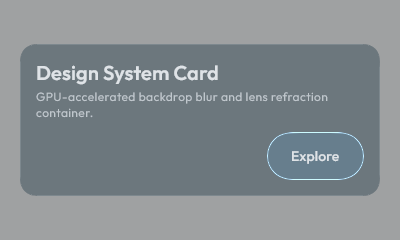
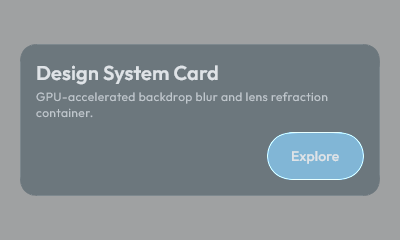
Restore GlassPrimaryButton's brand-accent identity
GlassButtonVariant.Primary's tint used the generic AlphaTokens.Hover
(0.20f), which after drawButtonSurface's own 0.5x overlay and the
AlphaTokens.ButtonFill (0.35f) base-fill translucency fix from earlier
this session, left Primary reading as visually identical in weight to
Standard/Secondary - defeating the point of a "primary" variant, and
specifically undercutting the redesigned workspace screen's "Open
Folder" primary-CTA hierarchy (it didn't visually read as primary).

Added a dedicated AlphaTokens.PrimaryButtonTint (0.85f) used only for
Primary's tint layer; the base surfaceColor fill still uses
AlphaTokens.ButtonFill unchanged, so backdrop blur visibility is fully
preserved. Standard/Secondary/Text variants are untouched.

Verified independently, not just from the delegate's report: an
initial check against the delegate's own before/after screenshots was
inconclusive (the "after" evidence was labeled with an exploratory
0.70 alpha, not the final 0.85 actually in the diff), so built a fresh
controlled diagnostic against a neutral (non-blue) captured backdrop -
confirms Primary now shows a clearly distinct blue/cyan fill and
border against Standard in both dark and light theme. Also spot-checked
two of the audit's claimed existing accent-color usages (GlassTab's
selectedColor, GlassLayout's active divider color) directly against
source - both accurate. Forced compileKotlinDesktop + detekt +
verifyDesignSystemGuardrails + full core:designsystem screenshot suite
[…]

Changed region(s): [[0.66, 0.525, 0.93, 0.7583]]

diff --git a/core/designsystem/src/commonMain/kotlin/org/ide/lti/core/designsystem/theme/Alpha.kt b/core/designsystem/src/commonMain/kotlin/org/ide/lti/core/designsystem/theme/Alpha.kt
@@ -61,6 +61,13 @@ object AlphaTokens {
     const val Strong: Float = 0.55f
 
     /**
+     * Dedicated tint opacity for [GlassPrimaryButton] and primary glass action surfaces.
+     * Ensures the brand accent color (cyan) reads prominently and unmistakably as the primary CTA
+     * over translucent glass surfaces without washing out or hiding backdrop blur (85%).
+     */
+    const val PrimaryButtonTint: Float = 0.85f
+
+    /**
      * Fill opacity multiplier for GlassButton's surface layer, applied on top of the shared
      * glassSurface/glassSurfaceElevated tokens' own alpha. Buttons are wide, mostly-flat pills
      * where the lens refraction shader only distorts a thin band near the edges (see

diff --git a/core/designsystem/src/commonMain/kotlin/org/ide/lti/core/designsystem/component/GlassButton.kt b/core/designsystem/src/commonMain/kotlin/org/ide/lti/core/designsystem/component/GlassButton.kt
@@ -230,7 +230,7 @@ private fun resolveButtonColors(
 ): Triple<Color, Color, Color> = when (variant) {
     GlassButtonVariant.Primary -> Triple(
         glassColors.glassSurfaceElevated,
-        glassColors.glassAccent.copy(alpha = AlphaTokens.Hover),
+        glassColors.glassAccent.copy(alpha = AlphaTokens.PrimaryButtonTint),
         glassColors.onGlass
     )
     GlassButtonVariant.Secondary -> Triple(
